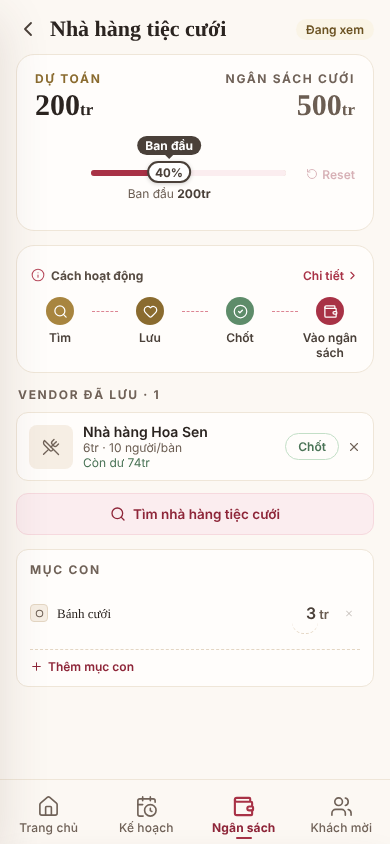
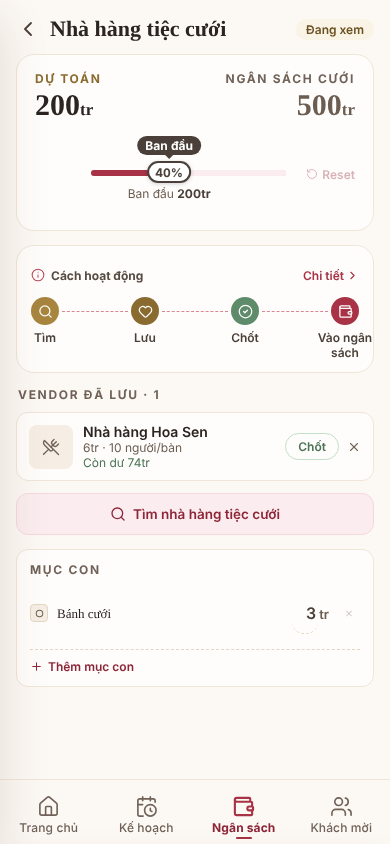
[T-050] Nét nối co giãn theo bề rộng ở màn hẹp (adv-01)
Claude-Session: https://claude.ai/code/session_01UGMXKqieLcV2K1vphWF5EZ

diff --git a/src/screens/VendorFlowSheet.jsx b/src/screens/VendorFlowSheet.jsx
@@ -79,13 +79,14 @@ export function VFlowOverview({ onOpen, buttonOnly = false, triggerRef }) {
           const last = i === FLOW_STEPS.length - 1;
           const body = (
             <>
-              <div style={{ display: 'flex', flexDirection: 'column', alignItems: 'center', gap: 5, flexShrink: 0, width: 58 }}>
+              <div style={{ display: 'flex', flexDirection: 'column', alignItems: 'center', gap: 5, flexShrink: 0, width: buttonOnly ? 28 : 58 }}>
                 <span style={{ width: 28, height: 28, borderRadius: '50%', flexShrink: 0,
                   background: s.color, display: 'flex', alignItems: 'center', justifyContent: 'center' }}>
                   <Icon name={s.icon} size={15} color={buttonOnly ? 'var(--white)' : '#fff'} sw={2} aria-hidden="true" />
                 </span>
                 <span style={{ fontFamily: 'var(--font-ui)', fontSize: 12, fontWeight: 600,
-                  color: 'var(--ink-700)', textAlign: 'center', lineHeight: 1.25 }}>
+                  color: 'var(--ink-700)', textAlign: 'center', lineHeight: 1.25,
+                  ...(buttonOnly ? { flexShrink: 0, width: 58 } : {}) }}>
                   {s.label}
                 </span>
               </div>
@@ -96,7 +97,7 @@ export function VFlowOverview({ onOpen, buttonOnly = false, triggerRef }) {
             </>
           );
           return buttonOnly ? (
-            <li key={s.n} style={{ display: 'flex', flex: last ? '0 0 58px' : '1 1 0', minWidth: 0 }}>{body}</li>
+            <li key={s.n} style={{ display: 'flex', flex: last ? '0 0 28px' : '1 1 0', minWidth: 0 }}>{body}</li>
           ) : (
             <div key={s.n} style={{ display: 'contents' }}>{body}</div>
           );
